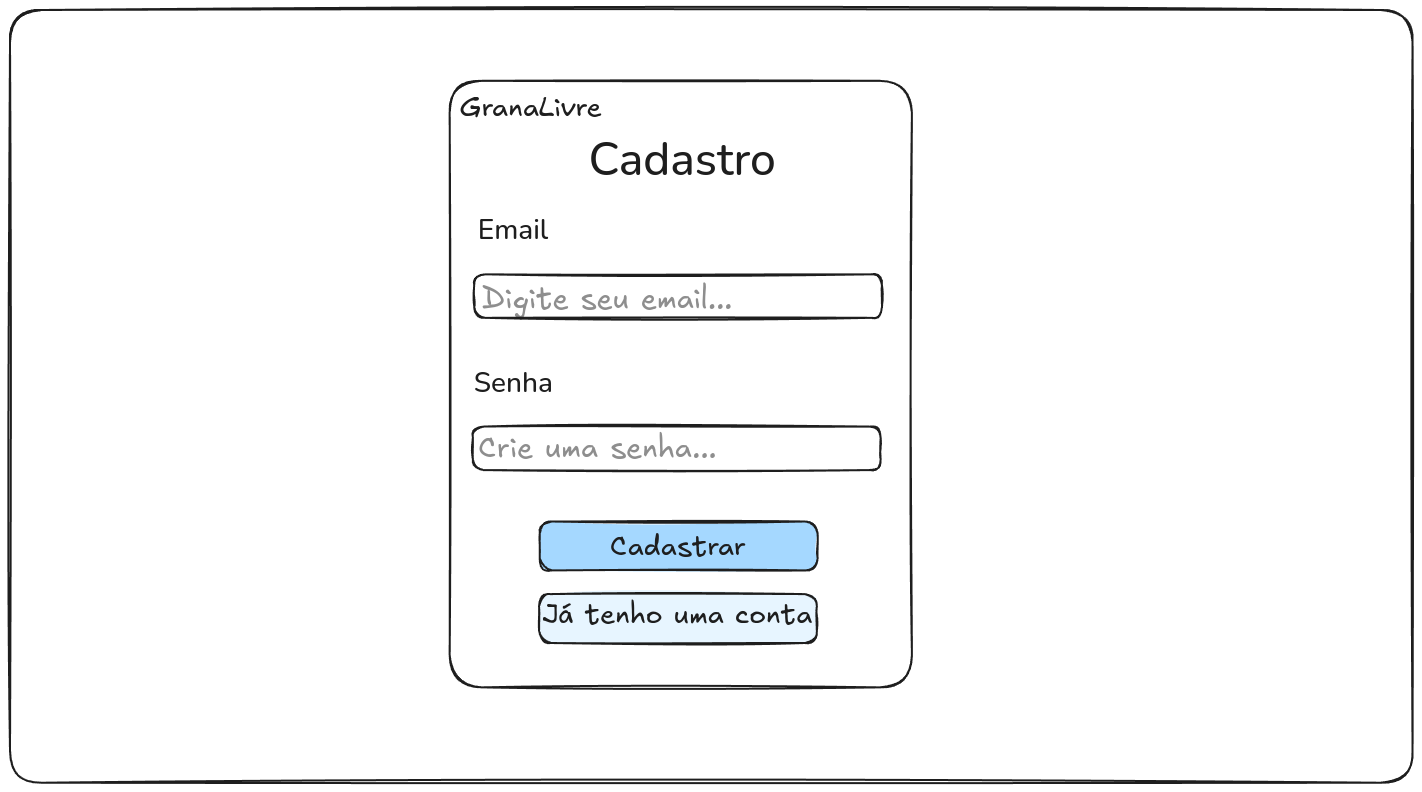
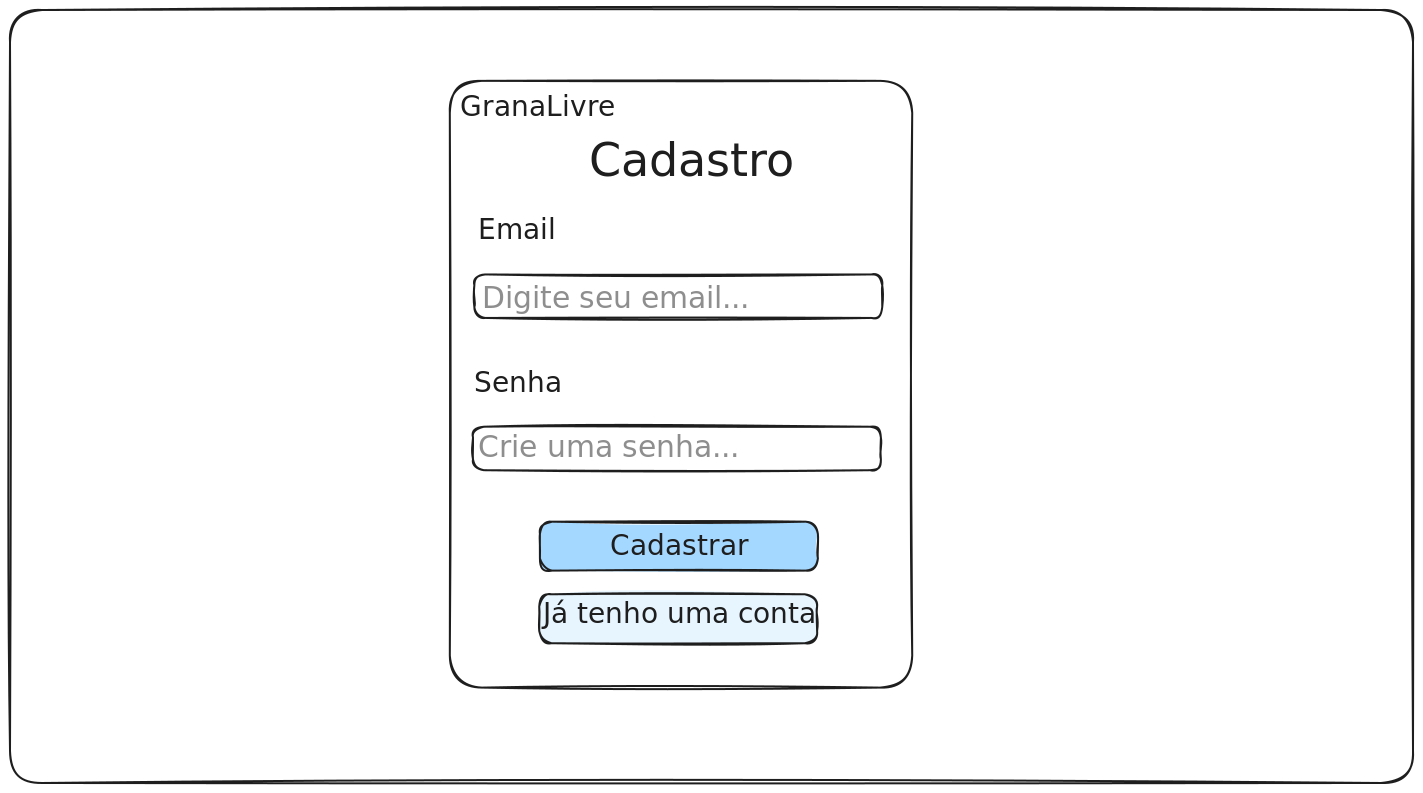
Fix: changing from svg to png

diff --git a/doc/latex/chapters/04_development.tex b/doc/latex/chapters/04_development.tex
@@ -7,7 +7,7 @@ O diagrama de casos de uso tem como objetivo ilustrar, de forma abstrata, as pri
 
 \begin{figure}[H]
     \centering
-    \includesvg[width=1\textwidth]{imgs/diagrama_casos_de_uso.jpg}
+    \includegraphics[width=0.9\textwidth]{imgs/diagrama_casos_de_uso.jpg}
     \caption{Diagrama de Casos de Uso do Sistema}
     \label{fig:casos_uso}
 \end{figure}
@@ -75,17 +75,16 @@ Os protótipos de baixa fidelidade foram desenvolvidos para representar a organi
     \label{fig:prot_resumo4}
 \end{figure}
 
-%04-entradas.svg até 04-entradas1.svg
 \begin{figure}[H]
     \centering
-    \includegraphics[width=0.9\textwidth]{imgs/04-entradas.svg}
+    \includegraphics[width=1\textwidth]{imgs/04-entradas.png}
     \caption{Protótipo de baixa fidelidade da tela de entradas}
     \label{fig:prot_entradas}
 \end{figure}
 
 \begin{figure}[H]
     \centering
-    \includegraphics[width=0.9\textwidth]{imgs/04-entradas1.svg}
+    \includegraphics[width=0.9\textwidth]{imgs/04-entradas1.png}
     \caption{Protótipo de baixa fidelidade da tela de gerenciamento de entradas com formulário para adicionar nova entrada}
     \label{fig:prot_entradas1}
 \end{figure}
@@ -93,14 +92,14 @@ Os protótipos de baixa fidelidade foram desenvolvidos para representar a organi
 %05-saidas.svg até 05-saidas1.svg
 \begin{figure}[H]
     \centering
-    \includegraphics[width=0.9\textwidth]{imgs/05-saidas.svg}
+    \includegraphics[width=0.9\textwidth]{imgs/05-saidas.png}
     \caption{Protótipo de baixa fidelidade da tela de gerenciamento de saídas}
     \label{fig:prot_saidas}
 \end{figure}
 
 \begin{figure}[H]
     \centering
-    \includegraphics[width=0.9\textwidth]{imgs/05-saida1.svg}
+    \includegraphics[width=0.9\textwidth]{imgs/05-saida1.png}
     \caption{Protótipo de baixa fidelidade da tela de gerenciamento de saídas com formulário para adicionar nova saída}
     \label{fig:prot_saidas1}
 \end{figure}
@@ -108,14 +107,14 @@ Os protótipos de baixa fidelidade foram desenvolvidos para representar a organi
 %06-automacoes.svg até 06-automacoes1.svg
 \begin{figure}[H]
     \centering
-    \includegraphics[width=0.9\textwidth]{imgs/06-automacoes.svg}
+    \includegraphics[width=0.9\textwidth]{imgs/06-automacoes.png}
     \caption{Protótipo de baixa fidelidade da tela de gerenciamento de automações}
     \label{fig:prot_automacoes}
 \end{figure}
 
 \begin{figure}[H]
     \centering
-    \includegraphics[width=0.9\textwidth]{imgs/06-automacoes1.svg}
+    \includegraphics[width=0.9\textwidth]{imgs/06-automacoes1.png}
     \caption{Protótipo de baixa fidelidade da tela de gerenciamento de automações com formulário para adicionar nova automação}
     \label{fig:prot_automacoes1}
 \end{figure}
@@ -124,28 +123,28 @@ Os protótipos de baixa fidelidade foram desenvolvidos para representar a organi
 %07-investimentos.svg até 07-investimentos3.svg
 \begin{figure}[H]
     \centering
-    \includegraphics[width=0.9\textwidth]{imgs/07-investimentos.svg}
+    \includegraphics[width=0.9\textwidth]{imgs/07-investimentos.png}
     \caption{Protótipo de baixa fidelidade da tela de gerenciamento de investimentos}
     \label{fig:prot_investimentos}
 \end{figure}
 
 \begin{figure}[H]
     \centering
-    \includegraphics[width=0.9\textwidth]{imgs/07-investimentos1.svg}
+    \includegraphics[width=0.9\textwidth]{imgs/07-investimentos1.png}
     \caption{Protótipo de baixa fidelidade da tela de gerenciamento de investimentos com formulário para adicionar novo investimento}
     \label{fig:prot_investimentos1}
 \end{figure}
 
 \begin{figure}[H]
     \centering
-    \includegraphics[width=0.9\textwidth]{imgs/07-investimentos2.svg}
+    \includegraphics[width=0.9\textwidth]{imgs/07-investimentos2.png}
     \caption{Protótipo de baixa fidelidade da tela de gerenciamento de investimentos os detalhes de um investimento existente}
     \label{fig:prot_investimentos2}
 \end{figure}
 
 \begin{figure}[H]
     \centering
-    \includegraphics[width=0.9\textwidth]{imgs/07-investimentos3.svg}
+    \includegraphics[width=0.9\textwidth]{imgs/07-investimentos3.png}
     \caption{Protótipo de baixa fidelidade da tela de gerenciamento de investimentos com formulário para liquidar investimento}
     \label{fig:prot_investimentos3}
 \end{figure}
@@ -153,21 +152,21 @@ Os protótipos de baixa fidelidade foram desenvolvidos para representar a organi
 %08-patrimonios.svg até 08-patrimonios2.svg
 \begin{figure}[H]
     \centering
-    \includegraphics[width=0.9\textwidth]{imgs/08-patrimonios.svg}
+    \includegraphics[width=0.9\textwidth]{imgs/08-patrimonios.png}
     \caption{Protótipo de baixa fidelidade da tela de gerenciamento de patrimônio}
     \label{fig:prot_patrimonios}
 \end{figure}
 
 \begin{figure}[H]
     \centering
-    \includegraphics[width=0.9\textwidth]{imgs/08-patrimonios1.svg}
+    \includegraphics[width=0.9\textwidth]{imgs/08-patrimonios1.png}
     \caption{Protótipo de baixa fidelidade da tela de gerenciamento de patrimônio com formulário para adicionar novo patrimônio}
     \label{fig:prot_patrimonios1}
 \end{figure}
 
 \begin{figure}[H]
     \centering
-    \includegraphics[width=0.9\textwidth]{imgs/08-patrimonios2.svg}
+    \includegraphics[width=0.9\textwidth]{imgs/08-patrimonios2.png}
     \caption{Protótipo de baixa fidelidade da tela de gerenciamento de patrimônio com formulário para liquidar patrimônio}
     \label{fig:prot_patrimonios2}
 \end{figure}
@@ -175,21 +174,21 @@ Os protótipos de baixa fidelidade foram desenvolvidos para representar a organi
 %09-conta.svg até 09-conta2.svg
 \begin{figure}[H]
     \centering
-    \includegraphics[width=0.9\textwidth]{imgs/09-conta.svg}
+    \includegraphics[width=0.9\textwidth]{imgs/09-conta.png}
     \caption{Protótipo de baixa fidelidade da tela de gerenciamento de conta}
     \label{fig:prot_conta}
 \end{figure}
 
 \begin{figure}[H]
     \centering
-    \includegraphics[width=0.9\textwidth]{imgs/09-conta1.svg}
+    \includegraphics[width=0.9\textwidth]{imgs/09-conta1.png}
     \caption{Protótipo de baixa fidelidade da tela de gerenciamento de conta com formulário para adicionar nova conta}
     \label{fig:prot_conta1}
 \end{figure}
 
 \begin{figure}[H]
     \centering
-    \includegraphics[width=0.9\textwidth]{imgs/09-conta2.svg}
+    \includegraphics[width=0.9\textwidth]{imgs/09-conta2.png}
     \caption{Protótipo de baixa fidelidade da tela de gerenciamento com os detalhes de uma conta existente}
     \label{fig:prot_conta2}
 \end{figure}
